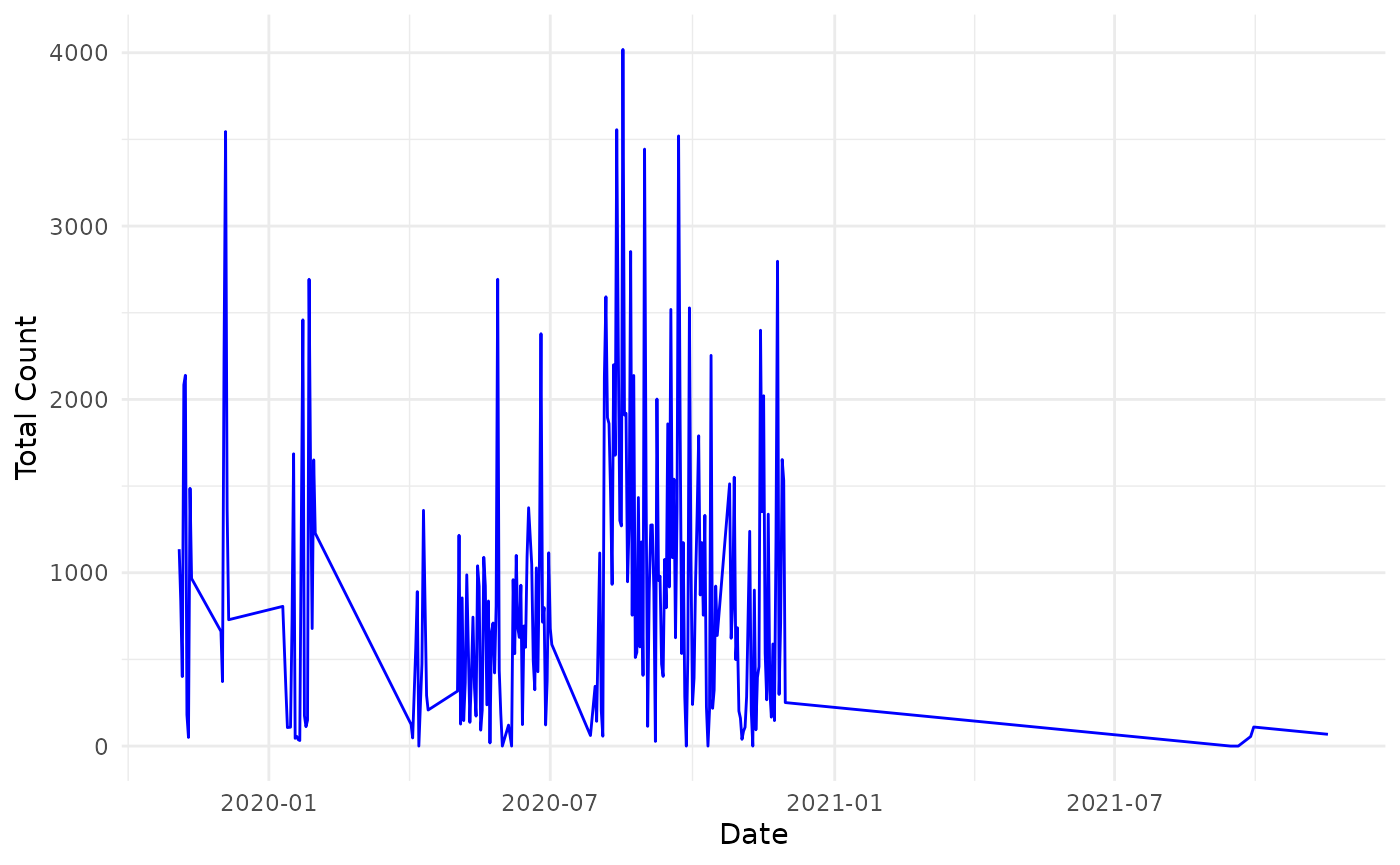
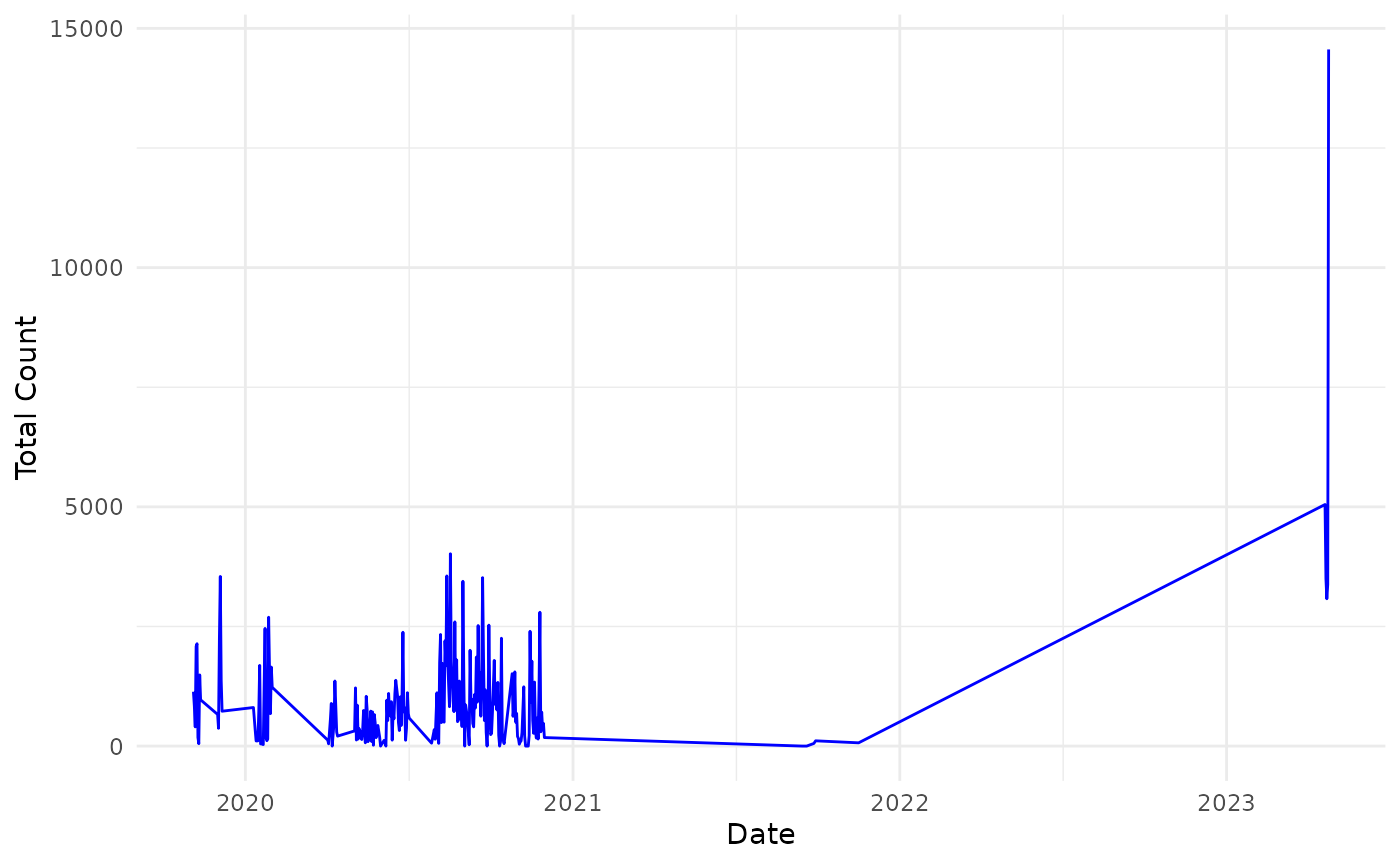
Deploying to gh-pages from @ fozy81/opendatascot@06a0d2b444e1fd8986744eeeef98dc4010b0d33a 🚀

diff --git a/articles/basic-usage.html b/articles/basic-usage.html
@@ -42,6 +42,7 @@
   <a href="#" class="nav-link dropdown-toggle" data-bs-toggle="dropdown" role="button" aria-expanded="false" aria-haspopup="true" id="dropdown-docs">Docs</a>
   <div class="dropdown-menu" aria-labelledby="dropdown-docs">
     <a class="dropdown-item" href="../articles/basic-usage.html">Basic Examples</a>
+    <a class="dropdown-item" href="../articles/riding-a-bike.html">Worked Example</a>
   </div>
 </li>
       </ul>
@@ -182,16 +183,16 @@ in JSON format.</p>
 <span><span class="co">#&gt; <span style="color: #949494;"># A tibble: 1,000 × 10</span></span></span>
 <span><span class="co">#&gt;    provider     area  siteID location latitude longitude startTime endTime count</span></span>
 <span><span class="co">#&gt;  <span style="color: #BCBCBC;">*</span> <span style="color: #949494; font-style: italic;">&lt;chr&gt;</span>        <span style="color: #949494; font-style: italic;">&lt;chr&gt;</span> <span style="color: #949494; font-style: italic;">&lt;chr&gt;</span>  <span style="color: #949494; font-style: italic;">&lt;chr&gt;</span>       <span style="color: #949494; font-style: italic;">&lt;dbl&gt;</span>     <span style="color: #949494; font-style: italic;">&lt;dbl&gt;</span> <span style="color: #949494; font-style: italic;">&lt;chr&gt;</span>     <span style="color: #949494; font-style: italic;">&lt;chr&gt;</span>   <span style="color: #949494; font-style: italic;">&lt;int&gt;</span></span></span>
-<span><span class="co">#&gt; <span style="color: #BCBCBC;"> 1</span> Glasgow Cit… Glas… GLG00… Trongate     55.9     -<span style="color: #BB0000;">4.24</span> 2020-10-… 2020-1…     0</span></span>
-<span><span class="co">#&gt; <span style="color: #BCBCBC;"> 2</span> Glasgow Cit… Glas… GLG00… Tradest…     55.9     -<span style="color: #BB0000;">4.26</span> 2019-11-… 2019-1…   738</span></span>
-<span><span class="co">#&gt; <span style="color: #BCBCBC;"> 3</span> Glasgow Cit… Glas… GLG02… Scotlan…     55.8     -<span style="color: #BB0000;">4.27</span> 2020-11-… 2020-1…     0</span></span>
-<span><span class="co">#&gt; <span style="color: #BCBCBC;"> 4</span> Glasgow Cit… Glas… GLG01… CP Sauc…     55.9     -<span style="color: #BB0000;">4.28</span> 2019-11-… 2019-1…   133</span></span>
-<span><span class="co">#&gt; <span style="color: #BCBCBC;"> 5</span> Glasgow Cit… Glas… GLG02… Scotlan…     55.8     -<span style="color: #BB0000;">4.27</span> 2020-10-… 2020-1…     0</span></span>
-<span><span class="co">#&gt; <span style="color: #BCBCBC;"> 6</span> Glasgow Cit… Glas… GLG00… Albert …     55.9     -<span style="color: #BB0000;">4.25</span> 2020-01-… 2020-0…   205</span></span>
-<span><span class="co">#&gt; <span style="color: #BCBCBC;"> 7</span> Glasgow Cit… Glas… GLG01… Berkele…     55.9     -<span style="color: #BB0000;">4.28</span> 2020-01-… 2020-0…     0</span></span>
-<span><span class="co">#&gt; <span style="color: #BCBCBC;"> 8</span> Glasgow Cit… Glas… GLG00… Clyde T…     55.9     -<span style="color: #BB0000;">4.33</span> 2020-01-… 2020-0…    45</span></span>
-<span><span class="co">#&gt; <span style="color: #BCBCBC;"> 9</span> Glasgow Cit… Glas… GLG00… Albert …     55.9     -<span style="color: #BB0000;">4.25</span> 2019-12-… 2019-1…   168</span></span>
-<span><span class="co">#&gt; <span style="color: #BCBCBC;">10</span> Glasgow Cit… Glas… GLG02… Garscub…     55.9     -<span style="color: #BB0000;">4.26</span> 2020-10-… 2020-1…     0</span></span>
+<span><span class="co">#&gt; <span style="color: #BCBCBC;"> 1</span> Glasgow Cit… Glas… GLG04… Bisland…     55.9     -<span style="color: #BB0000;">4.28</span> 2023-04-… 2023-0…    33</span></span>
+<span><span class="co">#&gt; <span style="color: #BCBCBC;"> 2</span> Glasgow Cit… Glas… GLG03… London …     55.8     -<span style="color: #BB0000;">4.22</span> 2023-04-… 2023-0…   119</span></span>
+<span><span class="co">#&gt; <span style="color: #BCBCBC;"> 3</span> Glasgow Cit… Glas… GLG03… Hawthor…     55.9     -<span style="color: #BB0000;">4.24</span> 2023-04-… 2023-0…    41</span></span>
+<span><span class="co">#&gt; <span style="color: #BCBCBC;"> 4</span> Glasgow Cit… Glas… GLG03… CP St A…     55.8     -<span style="color: #BB0000;">4.29</span> 2023-04-… 2023-0…   253</span></span>
+<span><span class="co">#&gt; <span style="color: #BCBCBC;"> 5</span> Glasgow Cit… Glas… GLG03… Pollok …     55.8     -<span style="color: #BB0000;">4.30</span> 2023-04-… 2023-0…   146</span></span>
+<span><span class="co">#&gt; <span style="color: #BCBCBC;"> 6</span> Glasgow Cit… Glas… GLG03… Glasgow…     55.9     -<span style="color: #BB0000;">4.25</span> 2023-04-… 2023-0…     0</span></span>
+<span><span class="co">#&gt; <span style="color: #BCBCBC;"> 7</span> Glasgow Cit… Glas… GLG03… Barrhea…     55.8     -<span style="color: #BB0000;">4.32</span> 2023-04-… 2023-0…    94</span></span>
+<span><span class="co">#&gt; <span style="color: #BCBCBC;"> 8</span> Glasgow Cit… Glas… GLG03… Balshag…     55.9     -<span style="color: #BB0000;">4.33</span> 2023-04-… 2023-0…   174</span></span>
+<span><span class="co">#&gt; <span style="color: #BCBCBC;"> 9</span> Glasgow Cit… Glas… GLG02… Balshag…     55.9     -<span style="color: #BB0000;">4.33</span> 2023-04-… 2023-0…    98</span></span>
+<span><span class="co">#&gt; <span style="color: #BCBCBC;">10</span> Glasgow Cit… Glas… GLG02… CP Gars…     55.9     -<span style="color: #BB0000;">4.26</span> 2023-04-… 2023-0…  <span style="text-decoration: underline;">1</span>510</span></span>
 <span><span class="co">#&gt; <span style="color: #949494;"># ℹ 990 more rows</span></span></span>
 <span><span class="co">#&gt; <span style="color: #949494;"># ℹ 1 more variable: usmart_id &lt;chr&gt;</span></span></span></code></pre></div>
 <p>We can see the cycle count JSON has been converted into a ‘flat’
@@ -270,7 +271,8 @@ We can add a base layer map to reveal the streets.</p>
 <span>        axis.text <span class="op">=</span> <span class="fu"><a href="https://ggplot2.tidyverse.org/reference/element.html" class="external-link">element_blank</a></span><span class="op">(</span><span class="op">)</span><span class="op">)</span></span>
 <span>  </span>
 <span></span>
-<span><span class="va">cycle_map</span> </span></code></pre></div>
+<span><span class="va">cycle_map</span> </span>
+<span><span class="co">#&gt; Warning: Removed 1 rows containing missing values (`geom_point()`).</span></span></code></pre></div>
 <p><img src="basic-usage_files/figure-html/unnamed-chunk-15-1.png" width="700"></p>
 <p>Looks like <a href="https://www.openstreetmap.org/#map=16/55.8530/-4.2606" class="external-link">Tradeston</a>
 area is a hot spot for cyclists.</p>

diff --git a/articles/riding-a-bike.html b/articles/riding-a-bike.html
@@ -38,10 +38,11 @@
 <li class="nav-item">
   <a class="nav-link" href="../reference/index.html">Reference</a>
 </li>
-<li class="nav-item dropdown">
+<li class="active nav-item dropdown">
   <a href="#" class="nav-link dropdown-toggle" data-bs-toggle="dropdown" role="button" aria-expanded="false" aria-haspopup="true" id="dropdown-docs">Docs</a>
   <div class="dropdown-menu" aria-labelledby="dropdown-docs">
     <a class="dropdown-item" href="../articles/basic-usage.html">Basic Examples</a>
+    <a class="dropdown-item" href="../articles/riding-a-bike.html">Worked Example</a>
   </div>
 </li>
       </ul>

diff --git a/reference/get_ods.html b/reference/get_ods.html
@@ -31,6 +31,7 @@ re-downloading on subsequent requests."><!-- mathjax --><script src="https://cdn
   <a href="#" class="nav-link dropdown-toggle" data-bs-toggle="dropdown" role="button" aria-expanded="false" aria-haspopup="true" id="dropdown-docs">Docs</a>
   <div class="dropdown-menu" aria-labelledby="dropdown-docs">
     <a class="dropdown-item" href="../articles/basic-usage.html">Basic Examples</a>
+    <a class="dropdown-item" href="../articles/riding-a-bike.html">Worked Example</a>
   </div>
 </li>
       </ul><form class="form-inline my-2 my-lg-0" role="search">

diff --git a/reference/search_ods.html b/reference/search_ods.html
@@ -27,6 +27,7 @@ opendata.scot"><!-- mathjax --><script src="https://cdnjs.cloudflare.com/ajax/li
   <a href="#" class="nav-link dropdown-toggle" data-bs-toggle="dropdown" role="button" aria-expanded="false" aria-haspopup="true" id="dropdown-docs">Docs</a>
   <div class="dropdown-menu" aria-labelledby="dropdown-docs">
     <a class="dropdown-item" href="../articles/basic-usage.html">Basic Examples</a>
+    <a class="dropdown-item" href="../articles/riding-a-bike.html">Worked Example</a>
   </div>
 </li>
       </ul><form class="form-inline my-2 my-lg-0" role="search">

diff --git a/404.html b/404.html
@@ -40,6 +40,7 @@
   <a href="https://fozy81.github.io/opendatascot/#" class="nav-link dropdown-toggle" data-bs-toggle="dropdown" role="button" aria-expanded="false" aria-haspopup="true" id="dropdown-docs">Docs</a>
   <div class="dropdown-menu" aria-labelledby="dropdown-docs">
     <a class="dropdown-item" href="https://fozy81.github.io/opendatascot/articles/basic-usage.html">Basic Examples</a>
+    <a class="dropdown-item" href="https://fozy81.github.io/opendatascot/articles/riding-a-bike.html">Worked Example</a>
   </div>
 </li>
       </ul>

diff --git a/articles/index.html b/articles/index.html
@@ -25,6 +25,7 @@
   <a href="#" class="nav-link dropdown-toggle" data-bs-toggle="dropdown" role="button" aria-expanded="false" aria-haspopup="true" id="dropdown-docs">Docs</a>
   <div class="dropdown-menu" aria-labelledby="dropdown-docs">
     <a class="dropdown-item" href="../articles/basic-usage.html">Basic Examples</a>
+    <a class="dropdown-item" href="../articles/riding-a-bike.html">Worked Example</a>
   </div>
 </li>
       </ul><form class="form-inline my-2 my-lg-0" role="search">

diff --git a/reference/index.html b/reference/index.html
@@ -25,6 +25,7 @@
   <a href="#" class="nav-link dropdown-toggle" data-bs-toggle="dropdown" role="button" aria-expanded="false" aria-haspopup="true" id="dropdown-docs">Docs</a>
   <div class="dropdown-menu" aria-labelledby="dropdown-docs">
     <a class="dropdown-item" href="../articles/basic-usage.html">Basic Examples</a>
+    <a class="dropdown-item" href="../articles/riding-a-bike.html">Worked Example</a>
   </div>
 </li>
       </ul><form class="form-inline my-2 my-lg-0" role="search">

diff --git a/CODE_OF_CONDUCT.html b/CODE_OF_CONDUCT.html
@@ -25,6 +25,7 @@
   <a href="#" class="nav-link dropdown-toggle" data-bs-toggle="dropdown" role="button" aria-expanded="false" aria-haspopup="true" id="dropdown-docs">Docs</a>
   <div class="dropdown-menu" aria-labelledby="dropdown-docs">
     <a class="dropdown-item" href="articles/basic-usage.html">Basic Examples</a>
+    <a class="dropdown-item" href="articles/riding-a-bike.html">Worked Example</a>
   </div>
 </li>
       </ul><form class="form-inline my-2 my-lg-0" role="search">

diff --git a/LICENSE-text.html b/LICENSE-text.html
@@ -25,6 +25,7 @@
   <a href="#" class="nav-link dropdown-toggle" data-bs-toggle="dropdown" role="button" aria-expanded="false" aria-haspopup="true" id="dropdown-docs">Docs</a>
   <div class="dropdown-menu" aria-labelledby="dropdown-docs">
     <a class="dropdown-item" href="articles/basic-usage.html">Basic Examples</a>
+    <a class="dropdown-item" href="articles/riding-a-bike.html">Worked Example</a>
   </div>
 </li>
       </ul><form class="form-inline my-2 my-lg-0" role="search">

diff --git a/LICENSE.html b/LICENSE.html
@@ -25,6 +25,7 @@
   <a href="#" class="nav-link dropdown-toggle" data-bs-toggle="dropdown" role="button" aria-expanded="false" aria-haspopup="true" id="dropdown-docs">Docs</a>
   <div class="dropdown-menu" aria-labelledby="dropdown-docs">
     <a class="dropdown-item" href="articles/basic-usage.html">Basic Examples</a>
+    <a class="dropdown-item" href="articles/riding-a-bike.html">Worked Example</a>
   </div>
 </li>
       </ul><form class="form-inline my-2 my-lg-0" role="search">

diff --git a/authors.html b/authors.html
@@ -25,6 +25,7 @@
   <a href="#" class="nav-link dropdown-toggle" data-bs-toggle="dropdown" role="button" aria-expanded="false" aria-haspopup="true" id="dropdown-docs">Docs</a>
   <div class="dropdown-menu" aria-labelledby="dropdown-docs">
     <a class="dropdown-item" href="articles/basic-usage.html">Basic Examples</a>
+    <a class="dropdown-item" href="articles/riding-a-bike.html">Worked Example</a>
   </div>
 </li>
       </ul><form class="form-inline my-2 my-lg-0" role="search">

diff --git a/index.html b/index.html
@@ -42,6 +42,7 @@
   <a href="#" class="nav-link dropdown-toggle" data-bs-toggle="dropdown" role="button" aria-expanded="false" aria-haspopup="true" id="dropdown-docs">Docs</a>
   <div class="dropdown-menu" aria-labelledby="dropdown-docs">
     <a class="dropdown-item" href="articles/basic-usage.html">Basic Examples</a>
+    <a class="dropdown-item" href="articles/riding-a-bike.html">Worked Example</a>
   </div>
 </li>
       </ul>
